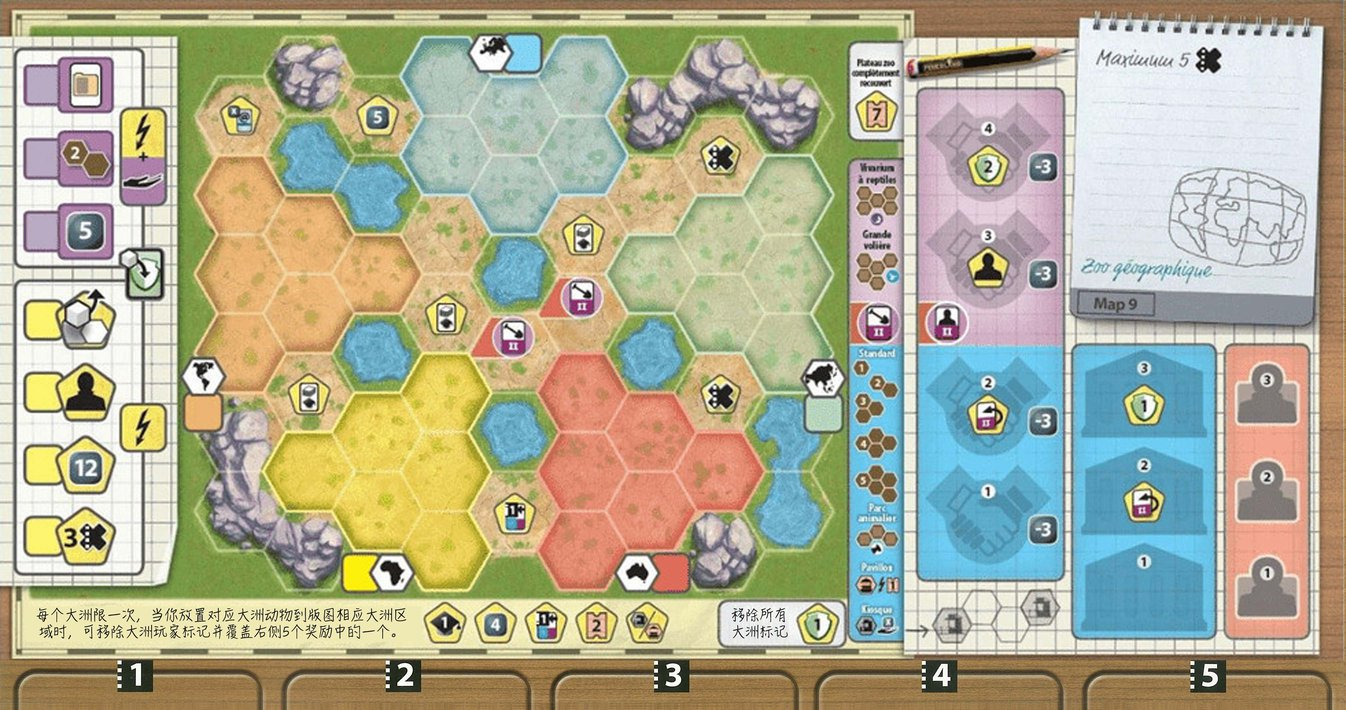
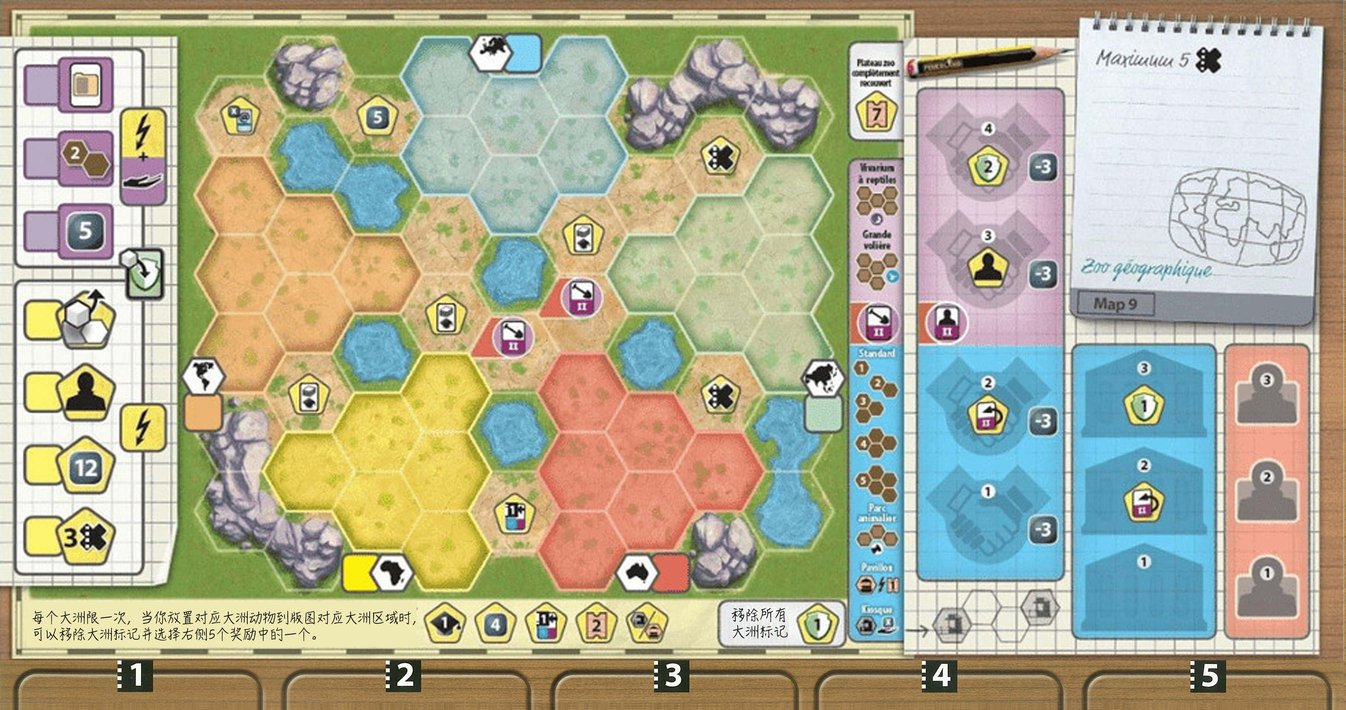
update map style

Changed region(s): [[0.0, 0.8366, 0.312, 0.8986]]

diff --git a/arknova-board.html b/arknova-board.html
@@ -40,9 +40,20 @@
     let mysrc =
             ["../images-ark/compress/plan1.jpg","../images-ark/compress/plan2.jpg","../images-ark/compress/plan3.jpg","../images-ark/compress/plan4.jpg","../images-ark/compress/plan5.jpg","../images-ark/compress/plan6.jpg","../images-ark/compress/plan7.jpg","../images-ark/compress/plan8.jpg","../images-ark/compress/plan9.jpg","../images-ark/compress/plan10.jpg","../images-ark/compress/plan0.jpg","../images-ark/compress/planA.jpg"];
     let mapTitle =
-          ["观测塔","户外营地","银湖","商业港口","主题餐厅","研究院","冰淇淋店","好莱坞山","地图9（待翻译）","地图10（待翻译）"];
+          ["观测塔","户外营地","银湖","商业港口","主题餐厅","研究院","冰淇淋甜品店","好莱坞山","地理学动物园","护理中心","地图0","地图A"];
     let mapText =
-          ["饲养区必须与观测塔的六角格相邻，而不仅仅是与另外3个岩石格相邻。","","","","","","","","左侧图示效果：移除一个大洲玩家标记，并选择下方奖励中的一个。","","","",""];
+          ["饲养区必须与观测塔的六角格相邻，而不仅仅是与另外3个岩石格相邻。这个观测平台对特殊饲养区无效。如果你将一个动物放归野外(而因此将一个已占用的饲养区翻回闲置的一面)，然后安置一个新动物到该饲养区，你将再次获得2魅力。",
+              "饲养区必须与户外营地的六角格相邻，而不仅仅是与另外4个水域格相邻。户外营地对特殊饲养区无效。当安置动物时，你可以将任何与户外营地相邻的标准饲养区，视为扩大2格的饲养区。",
+              "环湖四周是高利润区域。",
+              "一旦你在商业港口相邻的可建造六角格放置了建筑，则商业港口视为已被连接的。你可以再你回合的前、中、后任意时刻，或是行动中，使用其能力。然而，每回合你仅可以通过商业港口弃除1张卡牌。你不可以在休息期间或其他玩家的回合中，使用其能力。",
+              "在休息期间，每有一个与主题餐厅相邻并覆盖有建筑的六角格，你获得1元收入。与你在这里建造的建筑类型，以及饲养区是否被占用无关。",
+              "一旦你在研究院相邻的可建造六角格放置了建筑，则研究院视为已连接的。一旦激活，你能在缺少1个条件的情况下，打出动物卡牌，但你不能忽略岩石或者水域格的需求。",
+              "如果你已覆盖了所有冰淇淋店，则在休息的收入阶段中，你动物园地图上的每个贩售亭使你额外获得1元。",
+              "具有H标记的六角格可以如同其它六角格一样被覆盖，这类似于放置奖励，但并不视为一个放置奖励(不能触发考古学家的效果)。每次你放置一个建筑到H标记上时，从牌库中依次展示卡牌，直到你展示了一张赞助商卡牌，将该牌加入手牌并弃置其余展示的卡牌。一旦你覆盖了所有的H标志，则你之后打出的每张赞助商卡牌等级-1。",
+              "游戏开始时，在版图上每个大洲的空缺位置上放置一个玩家标记，即大洲标记。每个大洲限一次，当你放置对应大洲动物到版图对应大洲区域时，可以移除大洲标记并选择右侧5个奖励中的一个，你不需要使用玩家标记覆盖这些奖励。左侧动保奖励效果是移除一个大洲玩家标记，并选择下方奖励中的一个。",
+              "挖掘1(你可以从手牌中弃1张牌并摸1张牌，或者从展示区弃1张牌并补充1张牌)。如果你弃置的是动物牌(除了萌宠)，可以将卡牌放置到上方绿色箭头区域，该卡牌视为“已打出”，但不会获得其它卡牌效果(例如魅力和卡牌上的特殊技能)。",
+              "一般推新使用，强度较高。",
+              "一般推新使用，强度较高。"];
     document.getElementById("map-board").src = mysrc[i];
       console.log(document.getElementById("map-board"))
       document.getElementById("map-title").textContent = mapTitle[i];
@@ -74,10 +85,10 @@
       <button id="plan5" class="button btn1 background-color-map  " onclick="setMap(4)" title="filter Animals cards">地图5 主题餐厅</button>
 
       <button id="plan6" class="button btn1 background-color-map  " onclick="setMap(5)" title="filter Animals cards">地图6 研究院</button>
-      <button id="plan7" class="button btn1 background-color-map  " onclick="setMap(6)" title="filter Animals cards">地图7 冰淇淋店</button>
+      <button id="plan7" class="button btn1 background-color-map  " onclick="setMap(6)" title="filter Animals cards">地图7 冰淇淋甜品店</button>
       <button id="plan8" class="button btn1 background-color-map  " onclick="setMap(7)" title="filter Animals cards">地图8 好莱坞山</button>
-      <button id="plan9" class="button btn1 background-color-map  " onclick="setMap(8)" title="filter Animals cards">地图9</button>
-      <button id="plan10" class="button btn1 background-color-map  " onclick="setMap(9)" title="filter Animals cards">地图10</button>
+      <button id="plan9" class="button btn1 background-color-map  " onclick="setMap(8)" title="filter Animals cards">地图9 地理学动物园</button>
+      <button id="plan10" class="button btn1 background-color-map  " onclick="setMap(9)" title="filter Animals cards">地图10 护理中心</button>
 
       <button id="plan0" class="button btn1 background-color-beginner-map  " onclick="setMap(10)" title="filter Animals cards">地图0 新手图</button>
       <button id="planA" class="button btn1 background-color-beginner-map  " onclick="setMap(11)" title="filter Animals cards">地图A 新手图</button>
@@ -94,7 +105,7 @@
   width: 760px;
   height: 392px;
   border-radius: 5px;
-  margin-left: 10px;
+  margin-left: 6px;
   margin-top: 20px;
     box-shadow: 0 0 7px 1px black;">
             <br>
